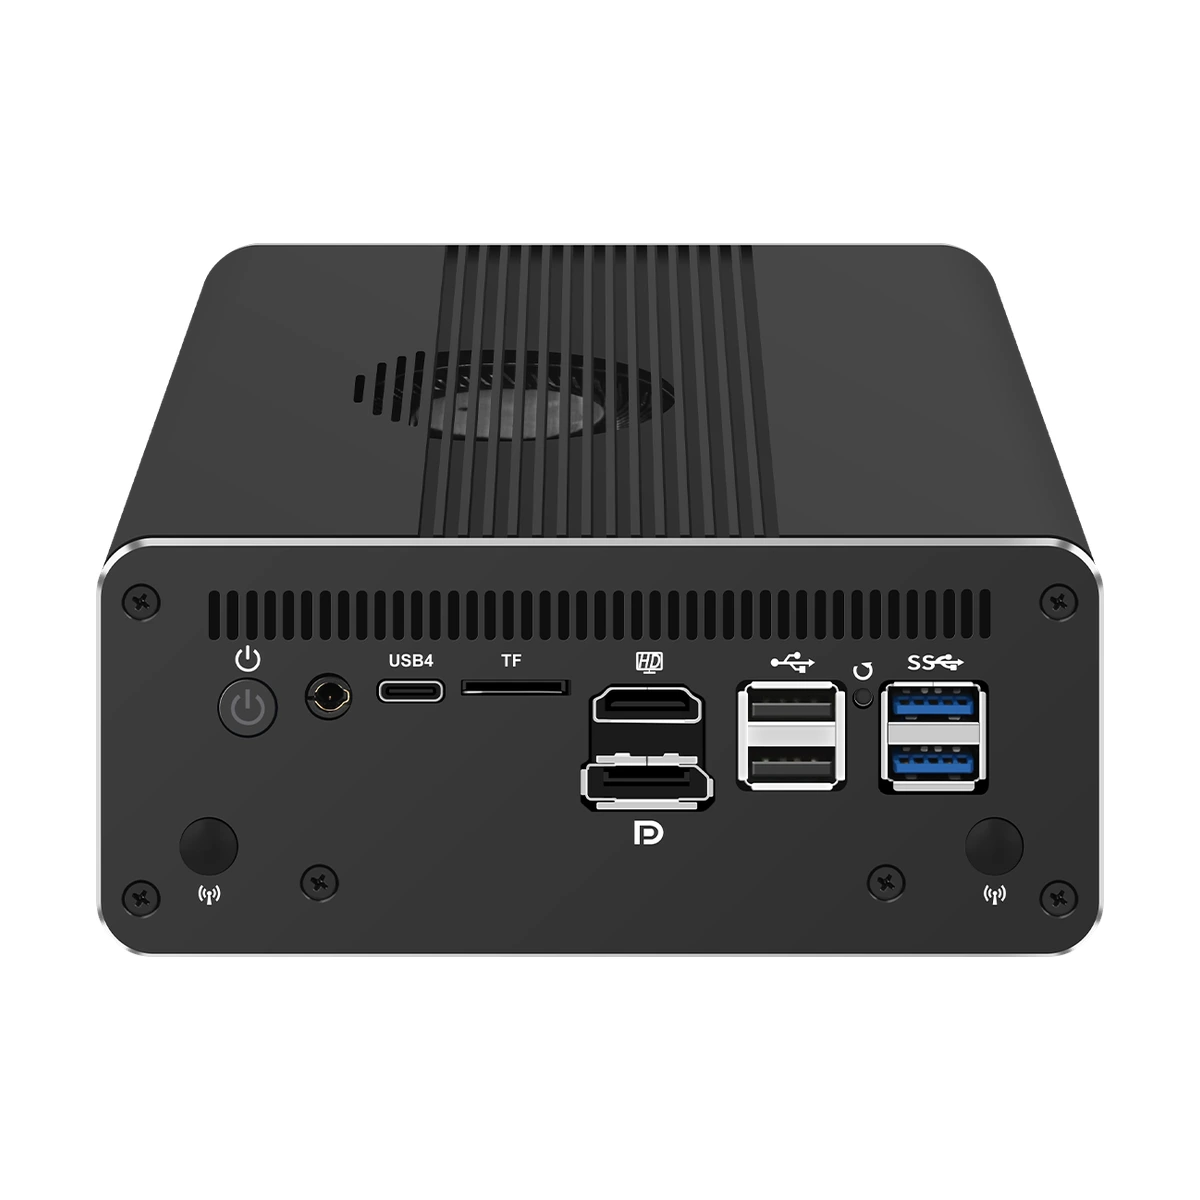
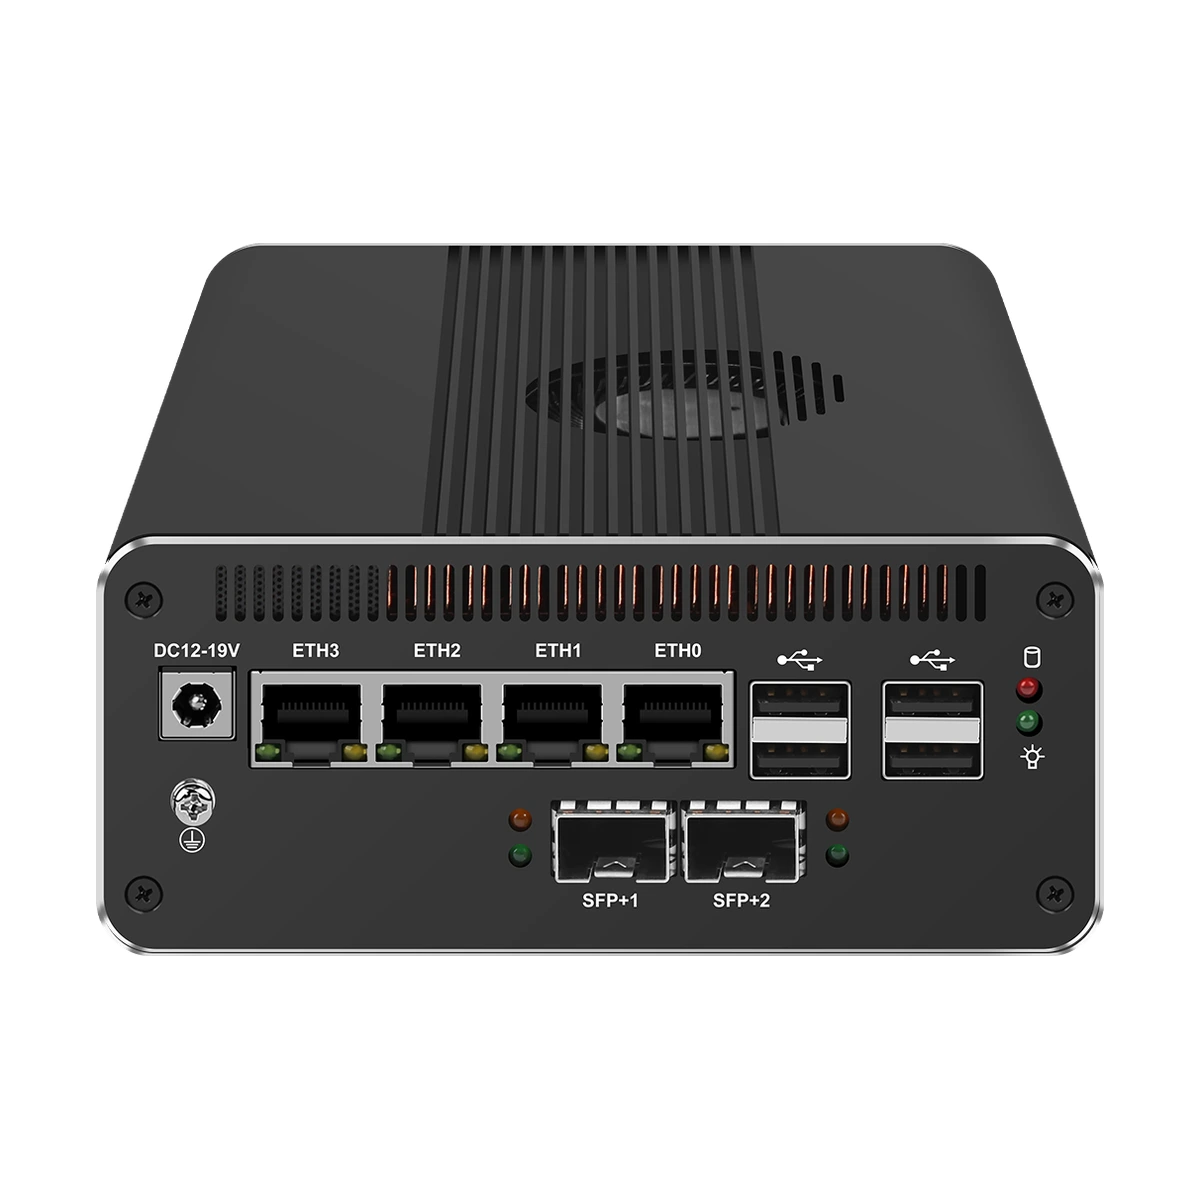
17.52

Changed region(s): [[0.0617, 0.185, 0.925, 0.8017], [0.2467, 0.7092, 0.2775, 0.74]]

diff --git a/scripts/import-september-products.py b/scripts/import-september-products.py
@@ -160,7 +160,7 @@ def build():
         titles = ["Front panel", "Rear panel", "Enclosure view"]
         if model == "MCAIPC2":
             titles = ["H04-BQ front view", "H04-BQ enclosure view"]
-        main = len(product_images) - 1 if series == "AI" or model == "MCDPC1" else 0
+        main = 1 if model in ["MCNAS14A", "MCNAS14B"] else len(product_images) - 1 if series == "AI" or model == "MCDPC1" else 0
         square(product_images[main], output / "main.webp")
         cards = []
         for i, image in enumerate(product_images):

diff --git a/docs/产品册子来源与更新规范.md b/docs/产品册子来源与更新规范.md
@@ -76,3 +76,5 @@ D:\本地资源库\电脑相关\电脑册子归档\ver2
 ## 已确认产品更正
 
 - MCAIPC1 无 SATA 接口。用户已明确授权直接更正来源 PDF；已移除 Storage 和 Expansion 的 SATA 描述，官网保留 4×M.2 2280 PCIe 4.0 SSD。后续不得从历史备份恢复 SATA 参数。原册备份位于归档目录的“修订备份”子目录（ver2 范围外）。一般资料只读规则仍适用于未获得明确修改授权的册子。
+
+- MCNAS14A / MCNAS14B 的默认头图与缩略图使用各自背面面板，以展示 2 个 / 4 个 SFP+ 接口差异；图库仍保留正反面。后续导入继续遵循此选图规则。
